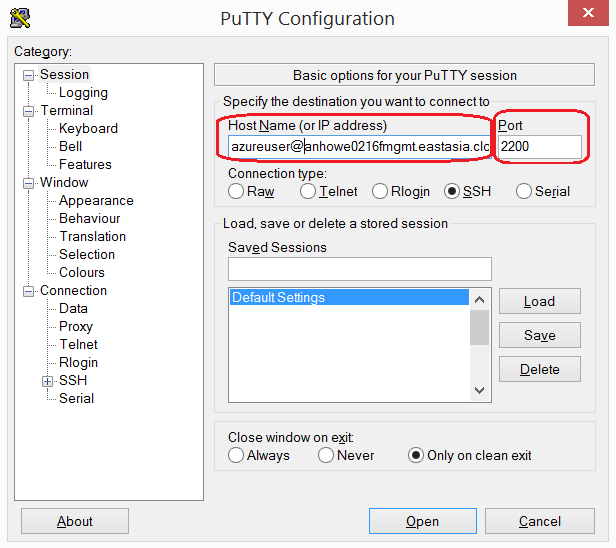
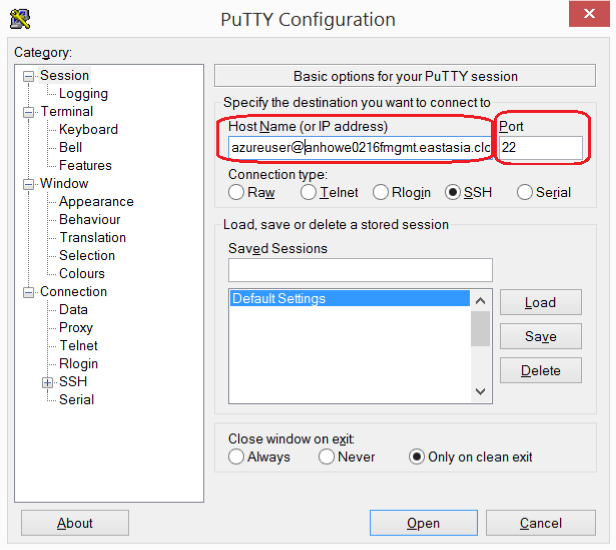
ssh to k8s master on TCP port 22

diff --git a/docs/ssh.md b/docs/ssh.md
@@ -24,7 +24,7 @@ Pageant enables agent forwarding.  This means that you can SSH from any of the m
   ![Image of Pageant addkey](images/pageant-addkey.png)
 
  5. Now try out the configuration by opening up Putty.exe
- 6. Type in "azureuser@FQDN" and port 2200 where FQDN is the management name returned after deploying a cluster and port:
+ 6. Type in "azureuser@FQDN" and port 22 where FQDN is the management name returned after deploying a cluster and port:
 
   ![Image of Putty main](images/putty-address.png)
 
